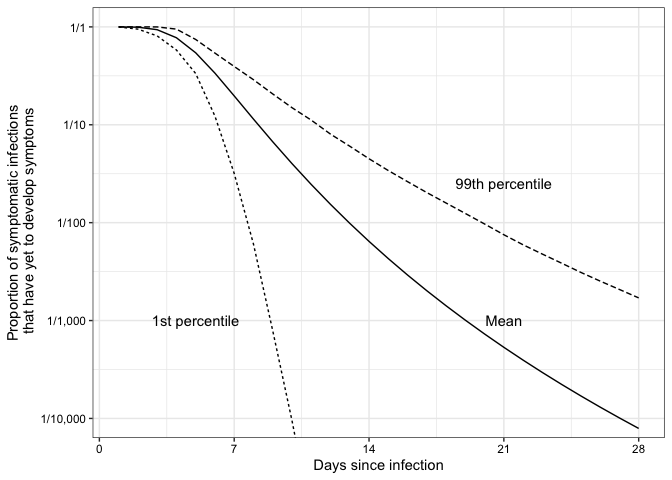
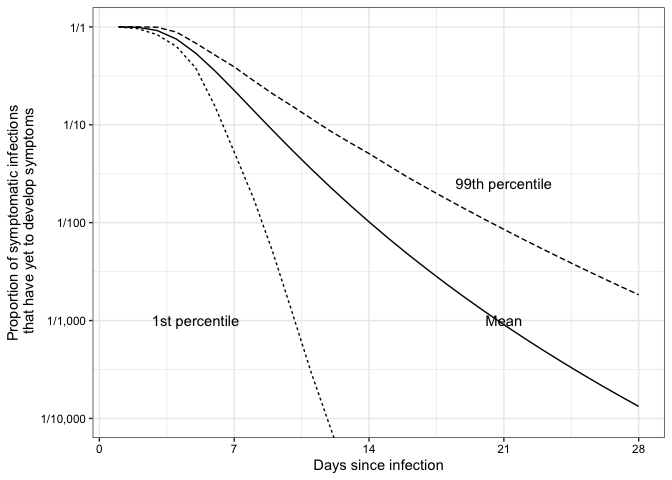
updated blog with latest data; added an analysis to manuscript that looks at fixed points for symptom onset

diff --git a/README.md b/README.md
@@ -1,12 +1,12 @@
-[![DOI](https://zenodo.org/badge/216109073.svg)](https://zenodo.org/badge/latestdoi/216109073)
+[![DOI](https://zenodo.org/badge/236349745.svg)](https://zenodo.org/badge/latestdoi/236349745)
 
 Real-time estimation of the novel coronavirus incubation time
 =============================================================
 
-Updated: Tue Feb 11 11:59:19 2020
+Updated: Thu Feb 27 16:26:31 2020
 
 [Read the medRxiv
-preprint!](https://www.medrxiv.org/content/10.1101/2020.02.02.20020016v1)
+preprint](https://www.medrxiv.org/content/10.1101/2020.02.02.20020016v1)
 
 Our lab has been collecting data (freely available at
 [`data/nCoV-IDD-traveler-data.csv`](https://github.com/HopkinsIDD/ncov_incubation/blob/master/data/nCoV-IDD-traveler-data.csv))
@@ -36,11 +36,11 @@ Quick links:
 Data summary
 ------------
 
-There are 101 cases from 38 countries and provinces outside of Hubei,
-China. Of those 34 are known to be female (34%) and 63 are male (62%).
-The median age is about 52 years (IQR: 36.5-59). 29 cases are from
-Mainland China (29%), while 72 are from the rest of the world (71%). 61
-cases presented with a fever (60%).
+There are 175 cases from 48 countries and provinces outside of Hubei,
+China. Of those 64 are known to be female (37%) and 107 are male (61%).
+The median age is about 44.5 years (IQR: 34-55). 76 cases are from
+Mainland China (43%), while 99 are from the rest of the world (57%). 98
+cases presented with a fever (56%).
 
 <img src="README_files/figure-markdown_strict/data-summary-1.png" alt="This figure displays the exposure and symptom onset windows for each case in our dataset, relative to the right-bound of the exposure window (ER). The blue bars indicate the the exposure windows and the red bars indicate the symptom onset windows for each case. Purple areas are where those two bars overlap."  />
 <p class="caption">
@@ -75,7 +75,7 @@ we make the following assumptions:
 -   For cases without an SL, we use the EL
 
 Under these assumptions, the median exposure interval was 49 (range:
-1-58.8) and the median symptom onset interval was 1 (range: 0-58.8).
+1-81.8) and the median symptom onset interval was 1 (range: 0-81.8).
 
 Incubation period estimates
 ---------------------------
@@ -103,68 +103,68 @@ The first model we fit is to all of the data and output the median,
 <tbody>
 <tr class="odd">
 <td>meanlog</td>
-<td style="text-align: right;">1.644</td>
-<td style="text-align: right;">1.495</td>
-<td style="text-align: right;">1.798</td>
+<td style="text-align: right;">1.648</td>
+<td style="text-align: right;">1.537</td>
+<td style="text-align: right;">1.778</td>
 </tr>
 <tr class="even">
 <td>sdlog</td>
-<td style="text-align: right;">0.363</td>
-<td style="text-align: right;">0.201</td>
-<td style="text-align: right;">0.521</td>
+<td style="text-align: right;">0.399</td>
+<td style="text-align: right;">0.249</td>
+<td style="text-align: right;">0.529</td>
 </tr>
 <tr class="odd">
 <td>p2.5</td>
-<td style="text-align: right;">2.542</td>
-<td style="text-align: right;">1.829</td>
-<td style="text-align: right;">3.564</td>
+<td style="text-align: right;">2.378</td>
+<td style="text-align: right;">1.854</td>
+<td style="text-align: right;">3.127</td>
 </tr>
 <tr class="even">
 <td>p5</td>
-<td style="text-align: right;">2.850</td>
-<td style="text-align: right;">2.153</td>
-<td style="text-align: right;">3.849</td>
+<td style="text-align: right;">2.697</td>
+<td style="text-align: right;">2.180</td>
+<td style="text-align: right;">3.403</td>
 </tr>
 <tr class="odd">
 <td>p25</td>
-<td style="text-align: right;">4.052</td>
-<td style="text-align: right;">3.411</td>
-<td style="text-align: right;">4.859</td>
+<td style="text-align: right;">3.971</td>
+<td style="text-align: right;">3.517</td>
+<td style="text-align: right;">4.534</td>
 </tr>
 <tr class="even">
 <td>p50</td>
-<td style="text-align: right;">5.174</td>
-<td style="text-align: right;">4.460</td>
-<td style="text-align: right;">6.037</td>
+<td style="text-align: right;">5.197</td>
+<td style="text-align: right;">4.649</td>
+<td style="text-align: right;">5.918</td>
 </tr>
 <tr class="odd">
 <td>p75</td>
-<td style="text-align: right;">6.608</td>
-<td style="text-align: right;">5.474</td>
-<td style="text-align: right;">8.062</td>
+<td style="text-align: right;">6.802</td>
+<td style="text-align: right;">5.721</td>
+<td style="text-align: right;">8.177</td>
 </tr>
 <tr class="even">
 <td>p95</td>
-<td style="text-align: right;">9.394</td>
-<td style="text-align: right;">6.887</td>
-<td style="text-align: right;">12.844</td>
+<td style="text-align: right;">10.017</td>
+<td style="text-align: right;">7.440</td>
+<td style="text-align: right;">13.315</td>
 </tr>
 <tr class="odd">
 <td>p97.5</td>
-<td style="text-align: right;">10.531</td>
-<td style="text-align: right;">7.381</td>
-<td style="text-align: right;">15.051</td>
+<td style="text-align: right;">11.358</td>
+<td style="text-align: right;">8.058</td>
+<td style="text-align: right;">15.688</td>
 </tr>
 </tbody>
 </table>
 
-The median incubation period lasts 5.174 days (CI: 4.46-6.037). The 2.5%
-of incubation periods pass in less than 2.542 days (CI: 1.829-3.564),
-while 97.5% of the population would experience symptoms by 10.531 days
-(CI: 7.381-15.051) since their exposure. The ‘meanlog’ and ‘sdlog’
-estimates are the median and dispersion parameters for a LogNormal
-distribution; i.e. we recommend using a LogNormal(1.644, 0.363)
-distribution to appropriately represent the incubation time
+The median incubation period lasts 5.197 days (CI: 4.649-5.918). The
+2.5% of incubation periods pass in less than 2.378 days (CI:
+1.854-3.127), while 97.5% of the population would experience symptoms by
+11.358 days (CI: 8.058-15.688) since their exposure. The ‘meanlog’ and
+‘sdlog’ estimates are the median and dispersion parameters for a
+LogNormal distribution; i.e. we recommend using a LogNormal(1.648,
+0.399) distribution to appropriately represent the incubation time
 distribution.
 
 Alternate estimates and sensitivity analyses
@@ -182,15 +182,15 @@ the Weibull distribution has a slightly smaller value at the 2.5th
 percentile and the log-normal distribution has a slightly larger value
 at the 97.5th percentile. The log-likelihoods were very similar between
 distributions; the log-normal distribution having the largest
-log-likelihood (62.05) and the Erlang distribution having the smallest
-log-likelihood (60.96).
+log-likelihood (57.88) and the Weibull distribution having the smallest
+log-likelihood (54.53).
 
-The gamma distribution has an estimated shape parameter of 7.92 (95% CI:
-3.97-24.98) and a scale parameter of 0.69 (95% CI: 0.21-1.52). The
-Weibull distribution has an estimated shape parameter of 3.11 (95% CI:
-2.2-6.08) and a scale parameter of 6.11 (95% CI: 5.19-7.25). The Erlang
-distribution has an estimated shape parameter of 14 (95% CI: 5-21) and a
-scale parameter of 0.4 (95% CI: 0.26-1.11).
+The gamma distribution has an estimated shape parameter of 6.34 (95% CI:
+3.82-16.17) and a scale parameter of 0.89 (95% CI: 0.32-1.63). The
+Weibull distribution has an estimated shape parameter of 2.55 (95% CI:
+1.99-4.42) and a scale parameter of 6.38 (95% CI: 5.43-7.51). The Erlang
+distribution has an estimated shape parameter of 7 (95% CI: 4-10) and a
+scale parameter of 0.82 (95% CI: 0.57-1.58).
 
 ### Sensitivity analyses
 
@@ -208,20 +208,20 @@ setting unknown ELs to 2018 December 1.
 
 <img src="README_files/figure-markdown_strict/all-sens-plot-1.png" style="display: block; margin: auto;" />
 
-Using only fevers, the estimates are 0.377 to 0.854 days longer than the
-estimates on the full data. 8 of the cases with a fever reported having
+Using only fevers, the estimates are 0.259 to 1.173 days longer than the
+estimates on the full data. 12 of the cases with a fever reported having
 other symptoms beforehand. While it may take a little longer for an
 exposure to cause a fever, the estimates are similar to those of the
 overall results. The confidence intervals are wider here at every
 quantile due to having less data.
 
 Using only cases from outside of Mainland China, the estimates are
--0.078 to 1.92 days longer than the estimates on the full data. There is
-a bit of a gap on the long end of the tail, but the confidence intervals
-overlap for the most part.
+-0.096 to 2.984 days longer than the estimates on the full data. There
+is a bit of a gap on the long end of the tail, but the confidence
+intervals overlap for the most part.
 
 When we set the unknown ELs to 2018 December 1 instead of 2019 December
-1, the estimates are -0.002 to 0.366 days longer than the estimates on
+1, the estimates are 0.005 to 0.248 days longer than the estimates on
 the full data. Somewhat surprisingly, this changes the estimates less
 than either of the other alternate estimates.
 
@@ -268,30 +268,30 @@ distributions.
 <tr class="odd">
 <td style="text-align: left;">JHU-IDD</td>
 <td style="text-align: center;">log-normal</td>
-<td style="text-align: right;">101</td>
-<td style="text-align: right;">1.64</td>
-<td style="text-align: right;">0.36</td>
+<td style="text-align: right;">175</td>
+<td style="text-align: right;">1.65</td>
+<td style="text-align: right;">0.40</td>
 </tr>
 <tr class="even">
 <td style="text-align: left;">JHU-IDD</td>
 <td style="text-align: center;">gamma</td>
-<td style="text-align: right;">101</td>
-<td style="text-align: right;">7.92</td>
-<td style="text-align: right;">0.69</td>
+<td style="text-align: right;">175</td>
+<td style="text-align: right;">6.34</td>
+<td style="text-align: right;">0.89</td>
 </tr>
 <tr class="odd">
 <td style="text-align: left;">JHU-IDD</td>
 <td style="text-align: center;">Weibull</td>
-<td style="text-align: right;">101</td>
-<td style="text-align: right;">3.11</td>
-<td style="text-align: right;">6.11</td>
+<td style="text-align: right;">175</td>
+<td style="text-align: right;">2.55</td>
+<td style="text-align: right;">6.38</td>
 </tr>
 <tr class="even">
 <td style="text-align: left;">JHU-IDD</td>
 <td style="text-align: center;">Erlang</td>
-<td style="text-align: right;">101</td>
-<td style="text-align: right;">14.00</td>
-<td style="text-align: right;">0.40</td>
+<td style="text-align: right;">175</td>
+<td style="text-align: right;">7.00</td>
+<td style="text-align: right;">0.82</td>
 </tr>
 <tr class="odd">
 <td style="text-align: left;">Backer 2020</td>
@@ -350,30 +350,30 @@ infection), ‘medium risk’ (1/1,000), ‘high risk’ (1/100), and ‘infecte
 <tr class="odd">
 <td style="text-align: left;">7 days</td>
 <td style="text-align: left;">0.2 (0.4)</td>
-<td style="text-align: left;">2.0 (3.9)</td>
-<td style="text-align: left;">19.7 (39.4)</td>
-<td style="text-align: left;">1971.5 (3940.2)</td>
+<td style="text-align: left;">2.2 (3.9)</td>
+<td style="text-align: left;">22.4 (39.0)</td>
+<td style="text-align: left;">2244.2 (3903.8)</td>
 </tr>
 <tr class="even">
 <td style="text-align: left;">14 days</td>
-<td style="text-align: left;">0.0 (0.0)</td>
-<td style="text-align: left;">0.1 (0.4)</td>
-<td style="text-align: left;">0.6 (4.5)</td>
-<td style="text-align: left;">64.4 (449.6)</td>
+<td style="text-align: left;">0.0 (0.1)</td>
+<td style="text-align: left;">0.1 (0.5)</td>
+<td style="text-align: left;">1.0 (5.1)</td>
+<td style="text-align: left;">101.8 (508.0)</td>
 </tr>
 <tr class="odd">
 <td style="text-align: left;">21 days</td>
 <td style="text-align: left;">0.0 (0.0)</td>
 <td style="text-align: left;">0.0 (0.1)</td>
-<td style="text-align: left;">0.1 (0.8)</td>
-<td style="text-align: left;">5.3 (75.3)</td>
+<td style="text-align: left;">0.1 (0.9)</td>
+<td style="text-align: left;">9.1 (85.4)</td>
 </tr>
 <tr class="even">
 <td style="text-align: left;">28 days</td>
 <td style="text-align: left;">0.0 (0.0)</td>
 <td style="text-align: left;">0.0 (0.0)</td>
 <td style="text-align: left;">0.0 (0.2)</td>
-<td style="text-align: left;">0.8 (17.0)</td>
+<td style="text-align: left;">1.3 (18.3)</td>
 </tr>
 </tbody>
 </table>
@@ -395,8 +395,8 @@ and the red bars indicate the hospitalization windows for each case.
 Purple areas are where those two bars overlap.
 </p>
 
-Of the 93 individuals who developed symptoms in the community (as
-opposed to in isolation), 26 (28%) were hospitalized within a day.
+Of the 168 individuals who developed symptoms in the community (as
+opposed to in isolation), 55 (33%) were hospitalized within a day.
 
 We modeled the time to hospitalization as a gamma distribution:
 
@@ -414,49 +414,49 @@ We modeled the time to hospitalization as a gamma distribution:
 <tbody>
 <tr class="odd">
 <td>shape</td>
-<td style="text-align: right;">0.444</td>
-<td style="text-align: right;">0.290</td>
-<td style="text-align: right;">0.691</td>
+<td style="text-align: right;">0.403</td>
+<td style="text-align: right;">0.294</td>
+<td style="text-align: right;">0.535</td>
 </tr>
 <tr class="even">
 <td>scale</td>
-<td style="text-align: right;">3.761</td>
-<td style="text-align: right;">2.325</td>
-<td style="text-align: right;">5.489</td>
+<td style="text-align: right;">4.624</td>
+<td style="text-align: right;">3.368</td>
+<td style="text-align: right;">6.231</td>
 </tr>
 <tr class="odd">
 <td>p2.5</td>
-<td style="text-align: right;">0.001</td>
 <td style="text-align: right;">0.000</td>
-<td style="text-align: right;">0.011</td>
+<td style="text-align: right;">0.000</td>
+<td style="text-align: right;">0.003</td>
 </tr>
 <tr class="even">
 <td>p25</td>
-<td style="text-align: right;">0.129</td>
-<td style="text-align: right;">0.027</td>
-<td style="text-align: right;">0.344</td>
+<td style="text-align: right;">0.112</td>
+<td style="text-align: right;">0.034</td>
+<td style="text-align: right;">0.239</td>
 </tr>
 <tr class="odd">
 <td>p50</td>
-<td style="text-align: right;">0.680</td>
-<td style="text-align: right;">0.297</td>
-<td style="text-align: right;">1.150</td>
+<td style="text-align: right;">0.682</td>
+<td style="text-align: right;">0.382</td>
+<td style="text-align: right;">1.024</td>
 </tr>
 <tr class="even">
 <td>p75</td>
-<td style="text-align: right;">2.163</td>
-<td style="text-align: right;">1.384</td>
-<td style="text-align: right;">2.922</td>
+<td style="text-align: right;">2.356</td>
+<td style="text-align: right;">1.772</td>
+<td style="text-align: right;">3.023</td>
 </tr>
 <tr class="odd">
 <td>p97.5</td>
-<td style="text-align: right;">8.860</td>
-<td style="text-align: right;">6.323</td>
-<td style="text-align: right;">11.345</td>
+<td style="text-align: right;">10.329</td>
+<td style="text-align: right;">8.131</td>
+<td style="text-align: right;">12.527</td>
 </tr>
 </tbody>
 </table>
 
-The model estimates that time to hospitalization is 1.7 days, on
+The model estimates that time to hospitalization is 1.9 days, on
 average. The majority of cases report quickly, though there is a long
 tail.
